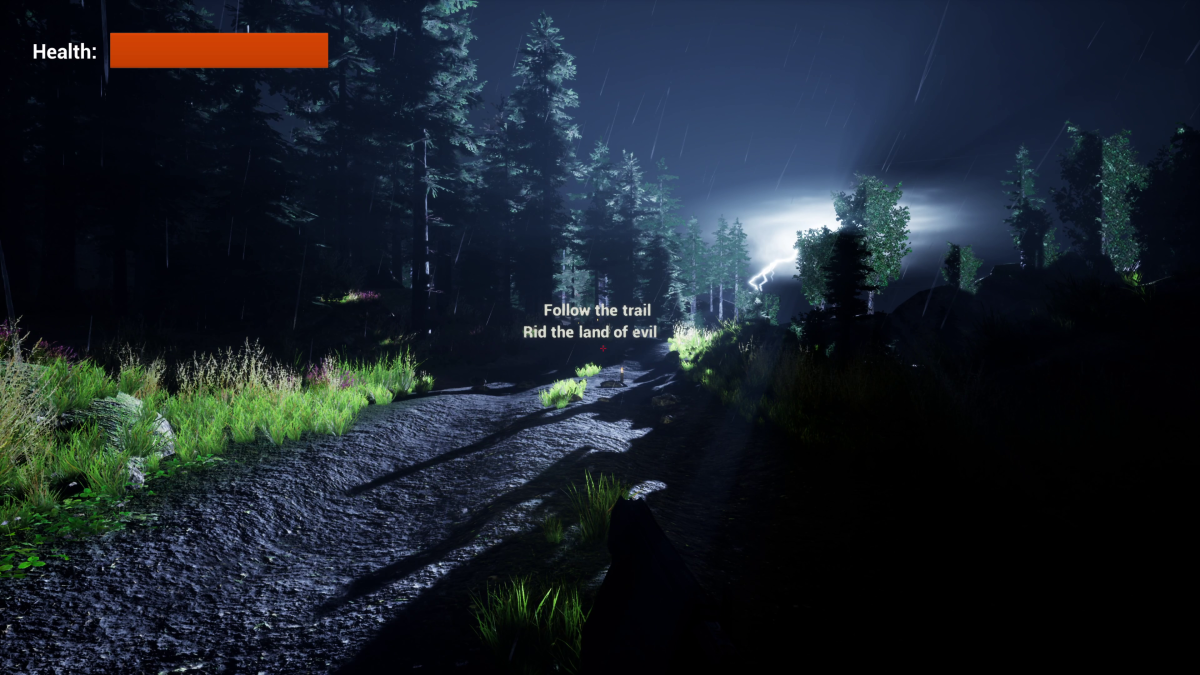
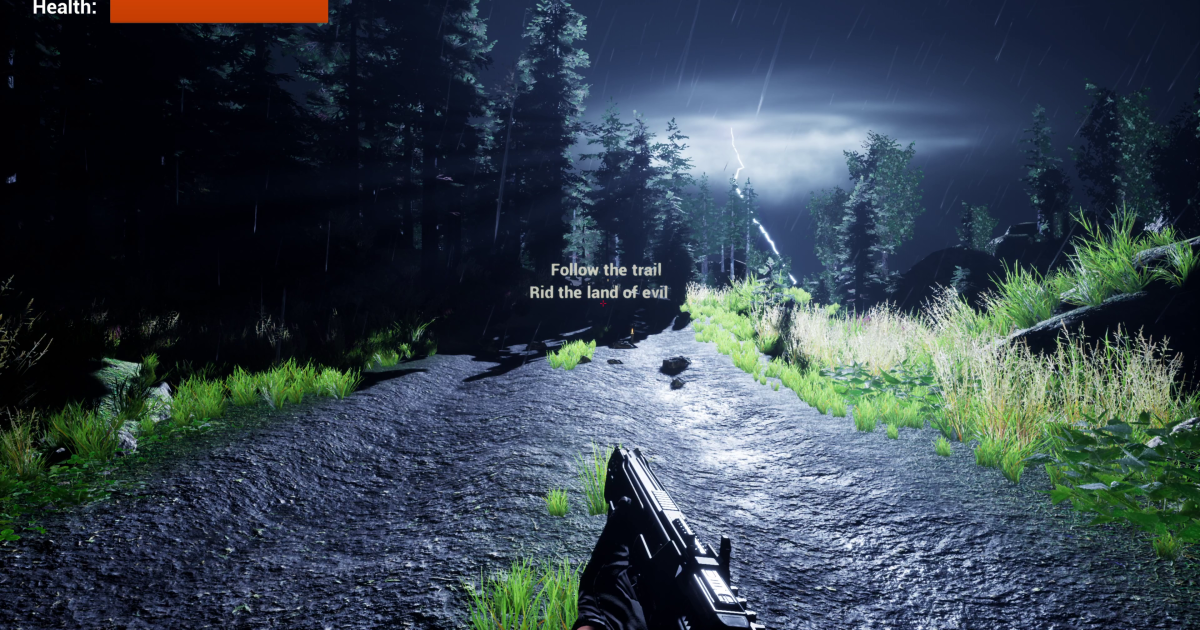
Updated asset list and cover image for follow the trail

diff --git a/_projects/FollowTheTrail-Halloween2021.md b/_projects/FollowTheTrail-Halloween2021.md
@@ -7,13 +7,20 @@ comments: true
 categories: project
 youtube_id: rF_WQ9Ie_Ns
 image: "/assets/projects/FollowTheTrail-Halloween2021/cover.png"
-project-type: Cinematic
+project-type: Playable Prototype
 engine: UE4
 download: https://gdcorner.itch.io/
 itchio: https://gdcorner.itch.io/
 ---
 
-I got bored on Halloween and decided to see how far I could get making a game in a few hours. Ended up spending 12 hours total, 6 hours on halloween, and 6 hours the next day and got a surprisingly good result.
+I got bored on Halloween and decided to see how far I could get making a game in a few hours. Ended up spending 12 hours total, 6 hours on halloween, and 6 hours the next day and ended up with a surprisingly good result.
+
+## Updates
+
+### V1.01
+
+ - Made escape button exit the game
+ - Brightened experience slightly so it isn't quite so dark on other screens
 
 # Credits
 
@@ -21,4 +28,17 @@ Created by Philip Edwards
 
 ## Assets Used
 
-- A lot, updated list coming soon.
+- [Humanoids Monsters Pack](https://unrealengine.com/marketplace/en-US/product/humanoids-monsters-pack)
+- [41 Animations for Monsters](https://unrealengine.com/marketplace/en-US/product/41-animations-for-monsters)
+- [FPS STARTER (PACK)](https://unrealengine.com/marketplace/en-US/product/fps-starter-pack-01)
+- [Abandoned Psychiatric Hospital](https://unrealengine.com/marketplace/en-US/product/abandoned-psychiatric-hospital)
+- [Realistic Starter VFX Pack](https://unrealengine.com/marketplace/en-US/product/realistic-starter-vfx-pack)
+- [Ultra Dynamic Sky](https://unrealengine.com/marketplace/en-US/product/ultra-dynamic-sky)
+- [Weapon Kit](https://unrealengine.com/marketplace/en-US/product/weapon-kit)
+- [Ultimate SFX Bundle](https://unrealengine.com/marketplace/en-US/product/ultimate-sfx-music-bundle-everything-bundle)
+- [Cafofo Human Vocal Sounds](https://www.unrealengine.com/marketplace/en-US/product/47d97ec9379e4446beb73cb12701a54a)
+- [Medieval Battle Sounds](https://www.unrealengine.com/marketplace/en-US/product/medieval-battle-sounds-library)
+- [Universal Sound FX](https://www.imphenzia.com/universal-sound-fx)
+- [Ambient Soundtrack Bundle: Eerie](https://www.unrealengine.com/marketplace/en-US/product/ambient-soundtrack-bundle-eerie)
+- Andrey Sitkov - Triumphant Orchestral Music Pack
+- [FreeToUseSounds](https://www.freetousesounds.com/)
